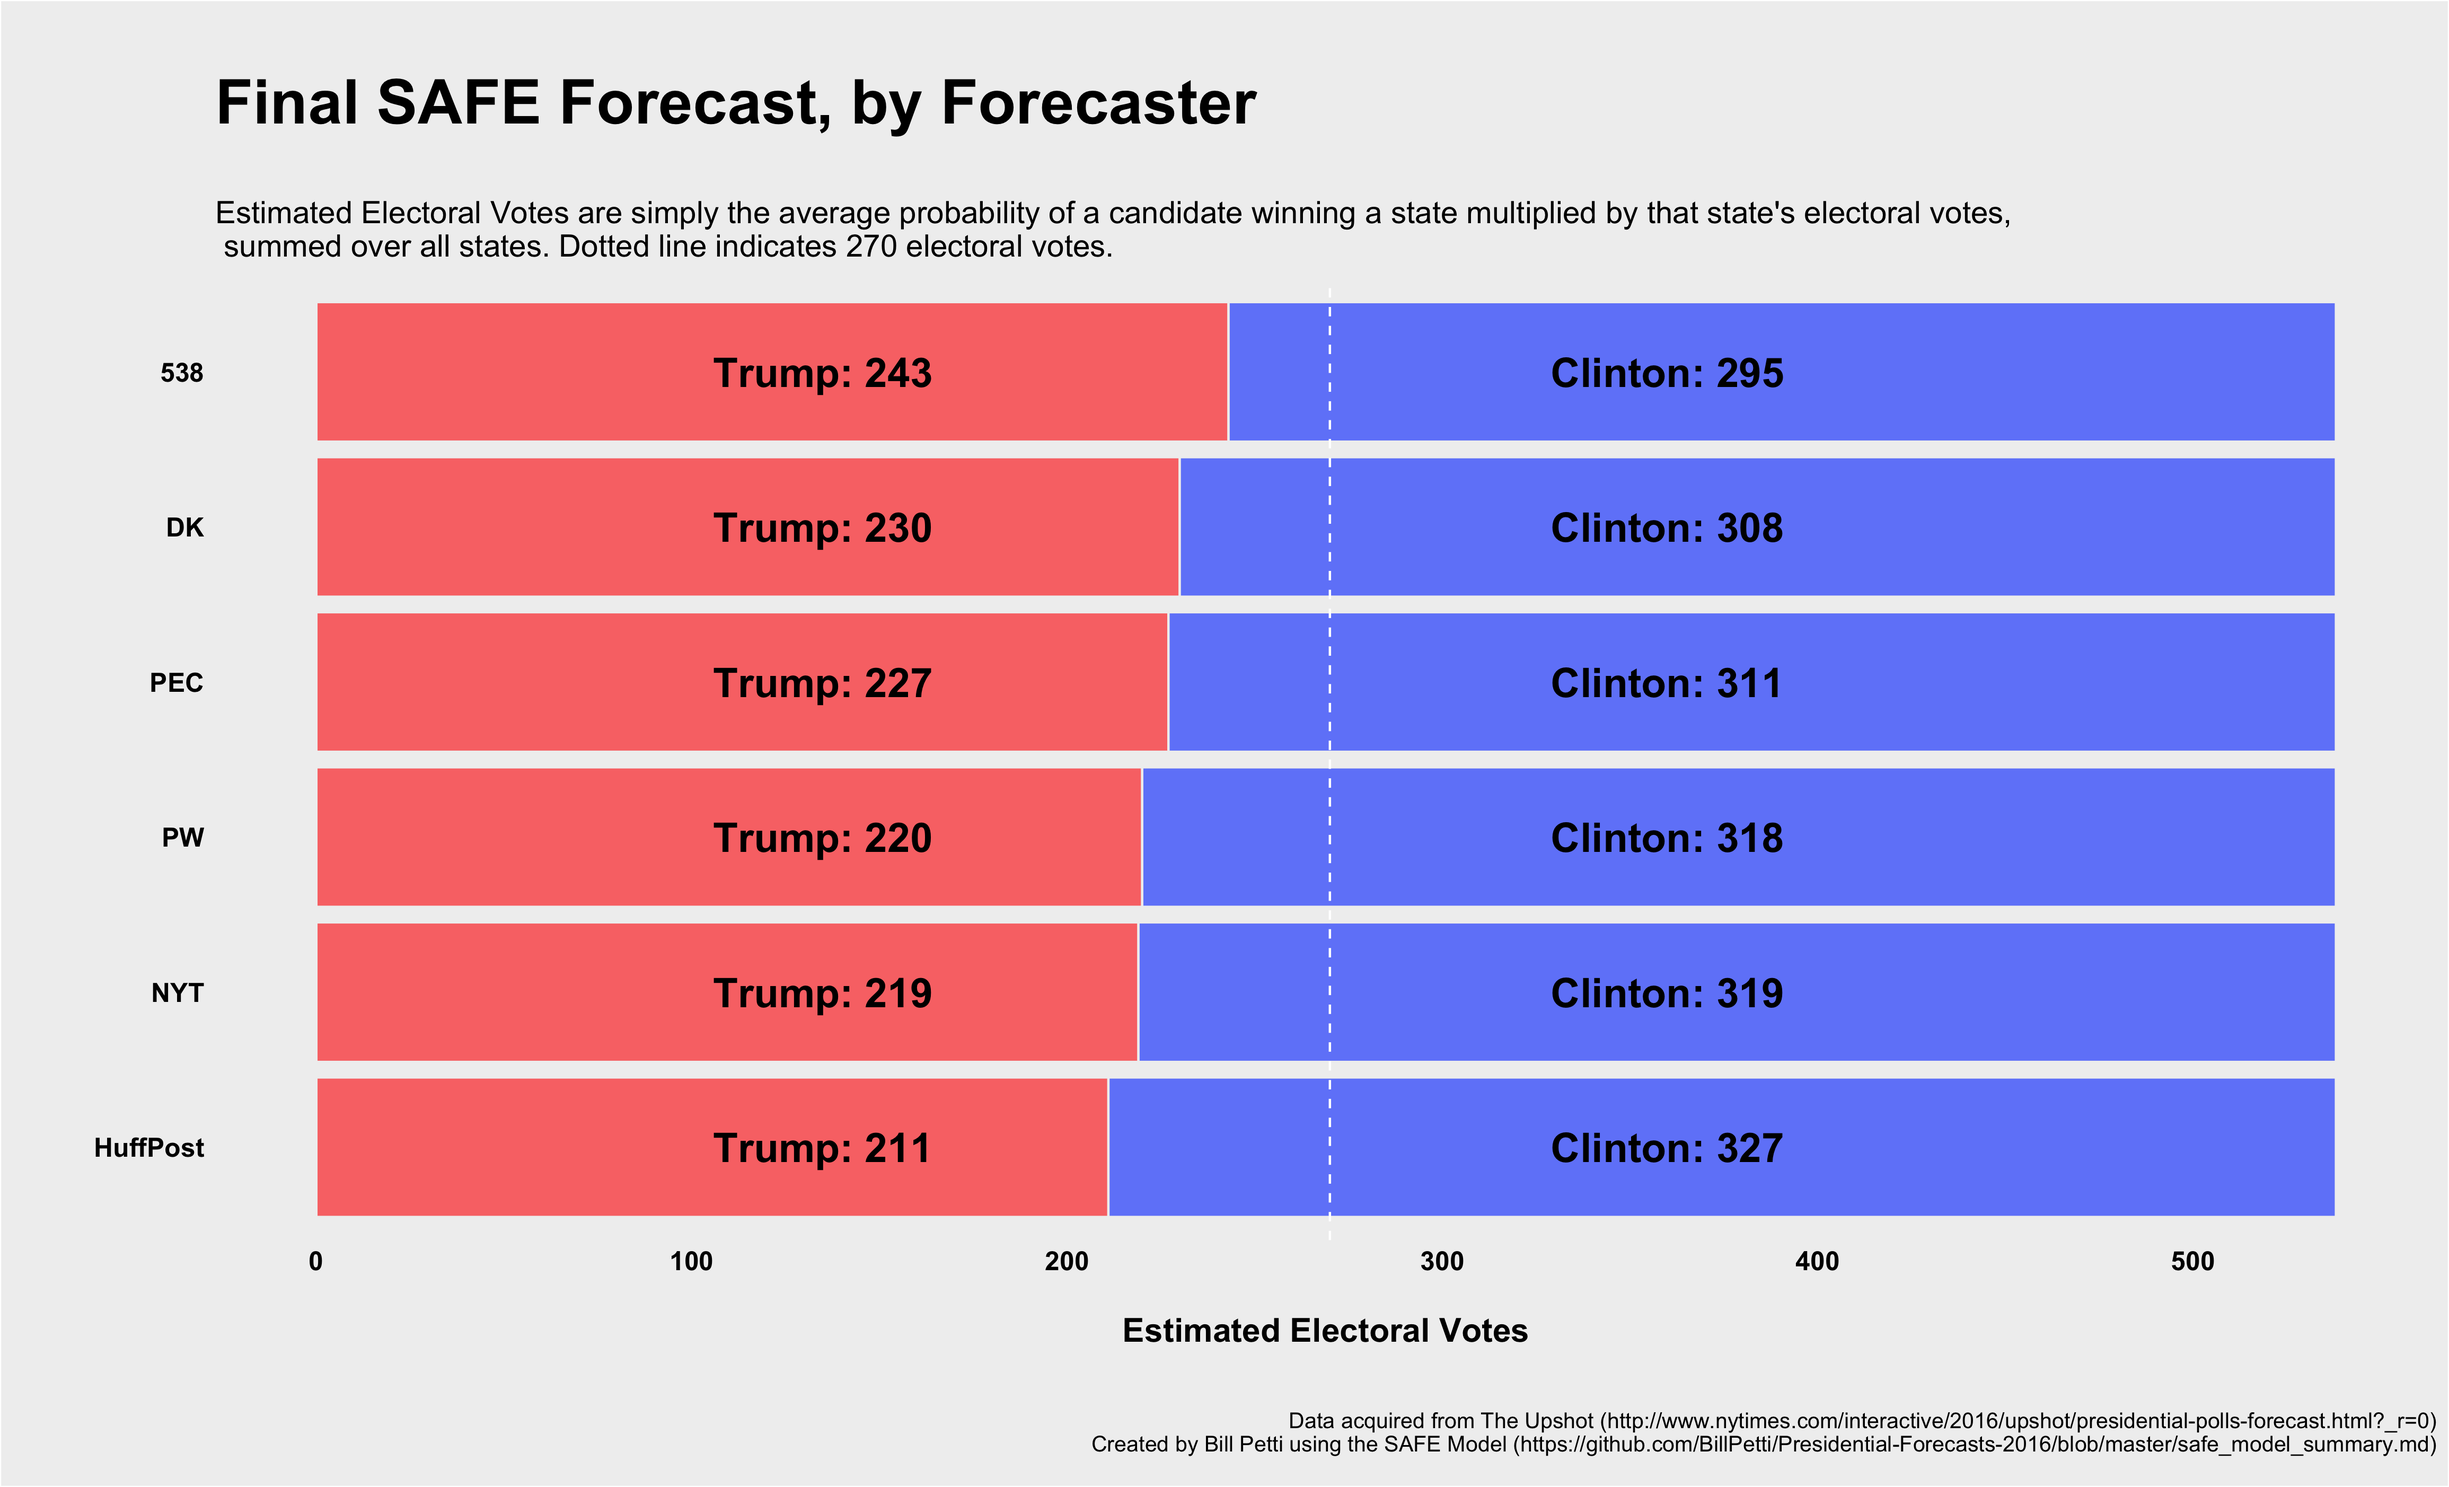
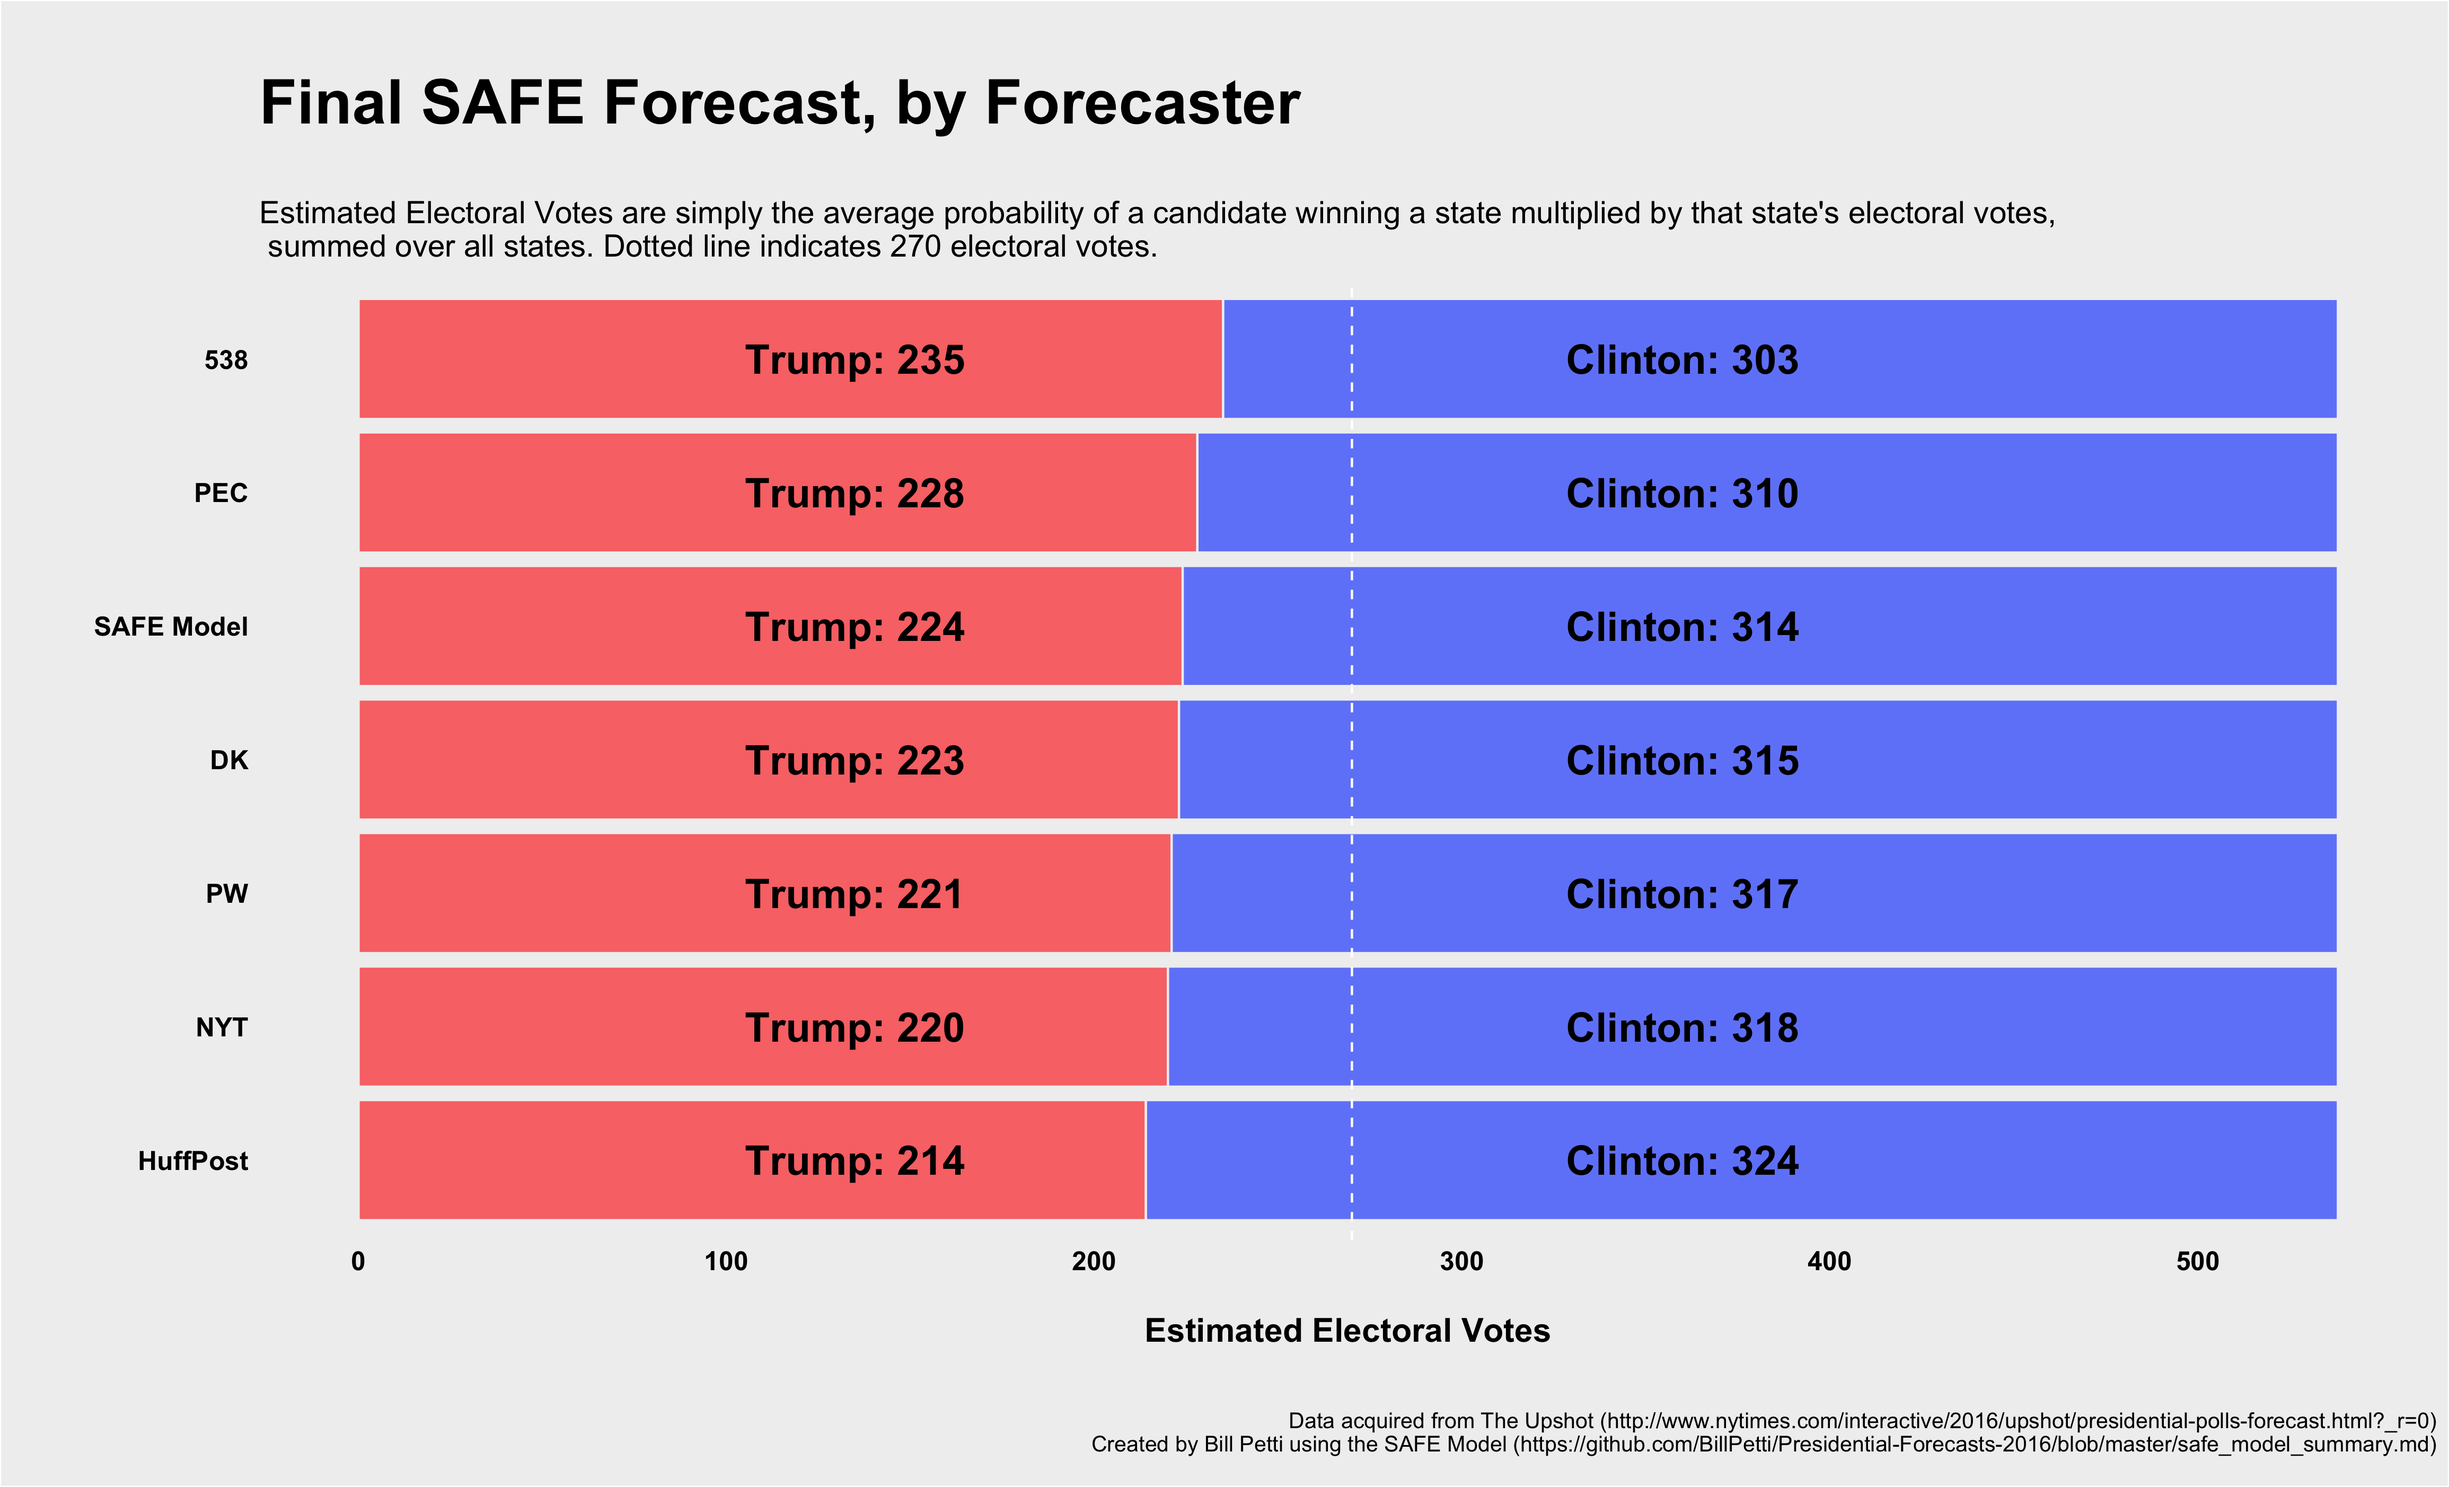
update 11-8

diff --git a/safe_model_summary.md b/safe_model_summary.md
@@ -4,27 +4,25 @@
 
 For fun, I put together a very, very simply model using the forecasts produced by the six major forecasters (i.e. PEC, 538, The Upshot, DailyKos, PredictWise, and The Huffington Post). SAFE stands for Simple Averaged Forecasters Estimate. Data is collected from The Upshot using my `pres_forecast` function (see [here](https://github.com/BillPetti/Presidential-Forecasts-2016/blob/master/README.md)). SAFE generates a forecast by simply averaging the probability of a candidate winning a state across the six major forecasters, then multiplies that averaged probability with that state's electoral votes. Summing the estimated electoral votes across states for each candidate gives us a very simple model of what the election outcome might look like.
 
-## Final Prediction (X:XXam EST on November 8, 2016)
+## Final Prediction (6:32am EST on November 8, 2016)
 
-Election Day is here, and the final SAFE model shows Hillary Clinton winning the election with an estimated XXX electoral votes to Donald Trump's XXX.
+Election Day is here, and the final SAFE model shows Hillary Clinton winning the election with an estimated 314 electoral votes to Donald Trump's 224.
 
-![alt text](https://github.com/BillPetti/Presidential-Forecasts-2016/blob/master/estimated_electoral_votes_2016-11-07.png?raw=true)
+![alt text](https://github.com/BillPetti/Presidential-Forecasts-2016/blob/master/estimated_electoral_votes_2016-11-08.png?raw=true)
 
-On average, Clinton can currently win 268 electoral votes in states where she has a greater than 90% probability of victory, so essentially she needs to capture just one state where he chances are less than 90% to secure the presidency.
+As before, Clinton can currently win 268 electoral votes in states where she has a greater than 90% probability of victory, so essentially she needs to capture just one state where he chances are less than 90% to secure the presidency.
 
-![alt text](https://github.com/BillPetti/Presidential-Forecasts-2016/blob/master/cumulative_ev_2016_2016-11-07.png?raw=true)
+![alt text](https://github.com/BillPetti/Presidential-Forecasts-2016/blob/master/cumulative_ev_2016_2016-11-08.png?raw=true)
 
-There was continued weakening in Clinton's chances in North Carolina and New Hampshire across many of the major forecasters. 
+Running the SAFE model on each major forecaster produces a range of outcomes for Clinton, from 303 electoral votes based on FiveThirtyEight to 324 based on the Huffington Post.
 
-![alt text](https://github.com/BillPetti/Presidential-Forecasts-2016/blob/master/trend_NC_2016-11-07.png?raw=true)
+![alt text](https://github.com/BillPetti/Presidential-Forecasts-2016/blob/master/SAFE_by_forecaster_2016-11-08.png?raw=true)
 
-![alt text](https://github.com/BillPetti/Presidential-Forecasts-2016/blob/master/trend_NH_2016-11-07.png?raw=true)
+If Clinton were to win each of the states where she currently has an average probability over 50% she would capture 323 electoral votes.
 
-These states represent two of the five where the major forecasters differ the most; North Carolina has a standard deviation of .1703 across the six major forecasters, while New Hampshire has a standard deviation of .1302.
+Clinton's chances rebounded in three critical states in the final day of polling.
 
-One of the other ways Clinton can win is by taking Nevada's 6 electoral votes. Clinton has a 63.8% chance of winning Nevada, based on an average of the major forecasters, a decline of 4.4% since last week. Nevada is also one of the states where the major forecasters disagree the most, with a standard deviation of .1588.
-
-![alt text](https://github.com/BillPetti/Presidential-Forecasts-2016/blob/master/trend_NV_2016-11-07.png?raw=true)
+Her probability of victory increased in New Hampshire to 81% (+4.8%), in Florida to 74.6% (+3.2%), and in Nevada to 71.8% (+8%). 
 
 Full table with average probabilities and standard deviations can be found [here](https://github.com/BillPetti/Presidential-Forecasts-2016/blob/master/Average%20and%20Standard%20Deviation%20Across%20Forecasters.csv).
 
